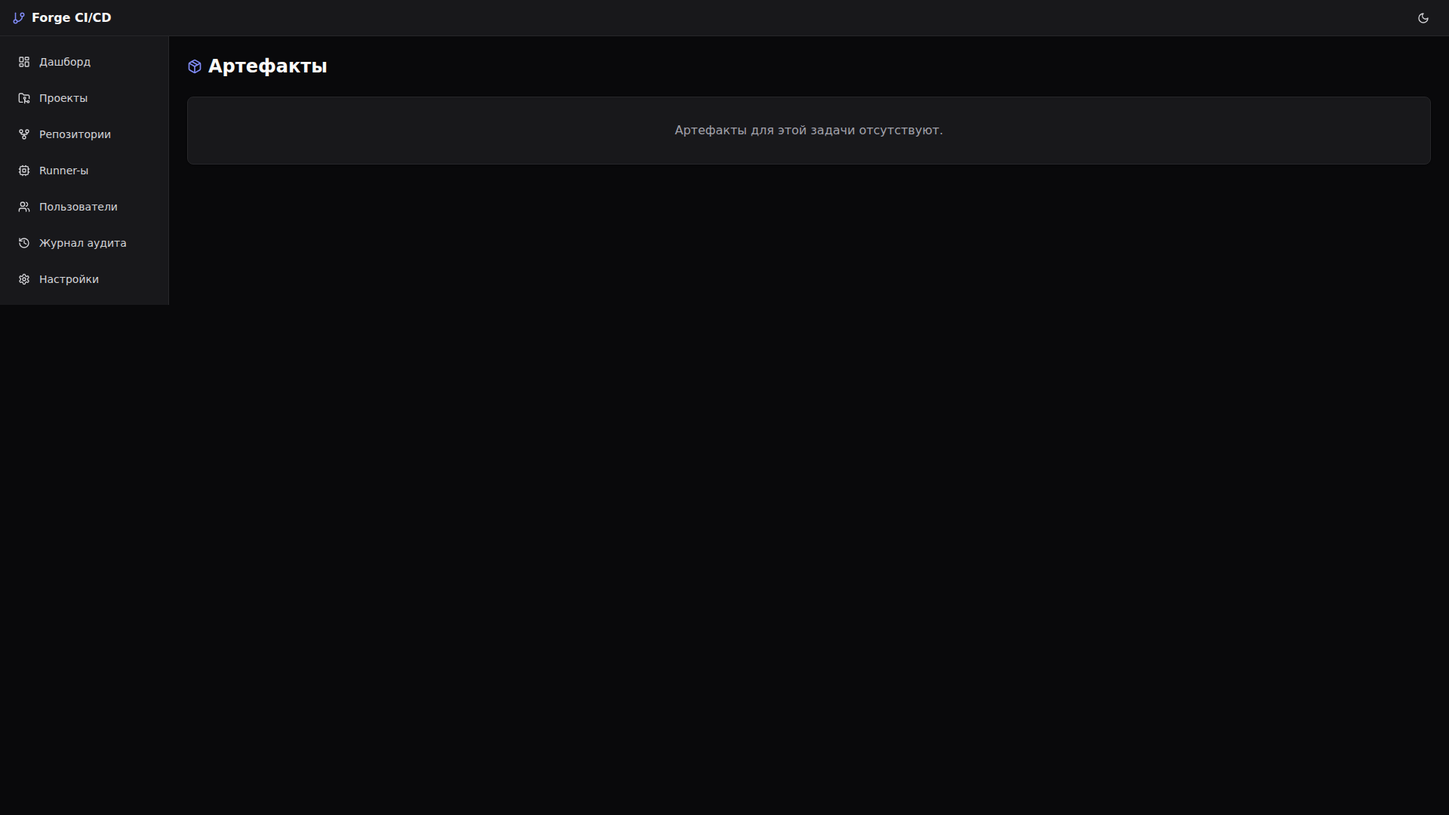
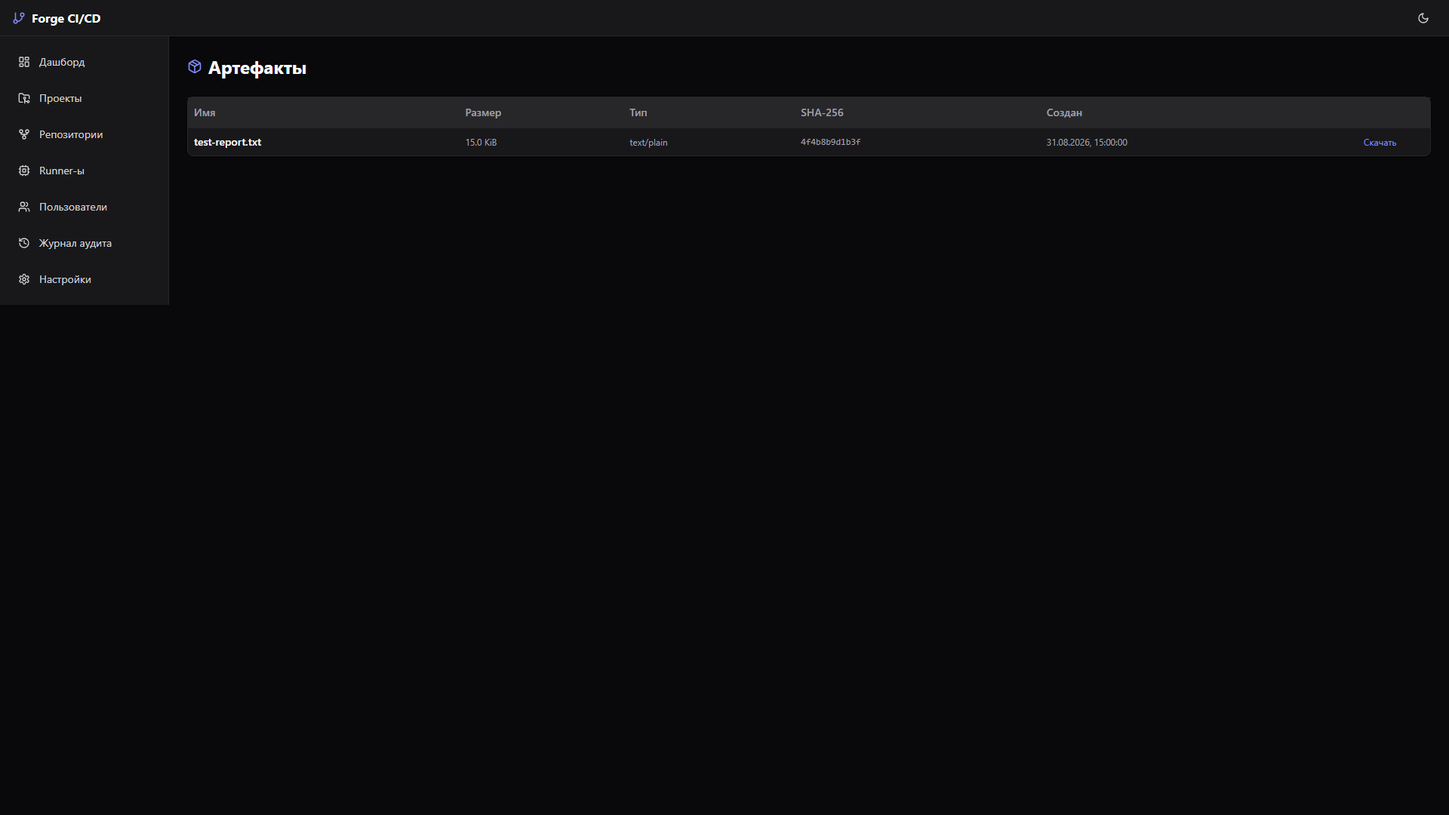
feat: add artifact checksum validation

diff --git a/frontend/src/pages/artifacts/index.tsx b/frontend/src/pages/artifacts/index.tsx
@@ -29,6 +29,7 @@ export function ArtifactsPage() {
                 <TableHead>{t('artifacts.name')}</TableHead>
                 <TableHead>{t('artifacts.size')}</TableHead>
                 <TableHead>{t('artifacts.type')}</TableHead>
+                <TableHead>{t('artifacts.digest')}</TableHead>
                 <TableHead>{t('artifacts.created')}</TableHead>
                 <TableHead className="w-24"></TableHead>
               </TableRow>
@@ -39,6 +40,7 @@ export function ArtifactsPage() {
                   <TableCell className="font-medium">{a.name}</TableCell>
                   <TableCell className="text-xs text-text-muted">{formatBytes(a.size_bytes)}</TableCell>
                   <TableCell className="text-xs text-text-muted">{a.content_type}</TableCell>
+                  <TableCell className="font-mono text-xs text-text-muted" title={a.sha256 ?? undefined}>{a.sha256 ? a.sha256.slice(0, 12) : 'n/a'}</TableCell>
                   <TableCell className="text-xs text-text-muted">{new Date(a.created_at).toLocaleString()}</TableCell>
                   <TableCell>
                     <a

diff --git a/frontend/src/api/schema.d.ts b/frontend/src/api/schema.d.ts
@@ -1138,6 +1138,7 @@ export interface components {
             /** Format: uuid */
             job_id: string;
             name: string;
+            sha256?: string | null;
             /** Format: int64 */
             size_bytes: number;
         };

diff --git a/frontend/src/api/types.ts b/frontend/src/api/types.ts
@@ -185,6 +185,7 @@ export interface Artifact {
   attempt_id: string | null
   name: string
   content_type: string
+  sha256: string | null
   size_bytes: number
   created_at: string
 }

diff --git a/backend/src/platform.rs b/backend/src/platform.rs
@@ -264,6 +264,7 @@ pub(crate) struct Artifact {
     attempt_id: Option<Uuid>,
     name: String,
     content_type: String,
+    sha256: Option<String>,
     size_bytes: i64,
     created_at: DateTime<Utc>,
 }
@@ -272,7 +273,7 @@ async fn list_artifacts(
     State(state): State<Arc<AppState>>,
     Path(job_id): Path<Uuid>,
 ) -> ApiResult<Vec<Artifact>> {
-    Ok(Json(sqlx::query_as("SELECT id, job_id, attempt_id, name, content_type, size_bytes, created_at FROM artifacts WHERE job_id = $1 ORDER BY created_at DESC")
+    Ok(Json(sqlx::query_as("SELECT id, job_id, attempt_id, name, content_type, sha256, size_bytes, created_at FROM artifacts WHERE job_id = $1 ORDER BY created_at DESC")
         .bind(job_id).fetch_all(pool(&state)?).await.map_err(ApiError::internal)?))
 }
 #[utoipa::path(post, path = "/api/v1/jobs/{job_id}/artifacts", tag = "artifacts", params(("job_id" = Uuid, Path), ("X-Artifact-Name" = String, Header)), request_body = Vec<u8>, responses((status = 200, body = Artifact), (status = 400)))]
@@ -293,7 +294,7 @@ async fn upload_artifact(
         .and_then(|v| v.to_str().ok())
         .unwrap_or("artifact.bin")
         .trim();
-    if name.is_empty() || name.contains('/') || name.contains('\\') {
+    if !valid_artifact_name(name) {
         return Err(ApiError::bad_request("invalid artifact name"));
     }
     let content_type = headers
@@ -301,6 +302,7 @@ async fn upload_artifact(
         .and_then(|v| v.to_str().ok())
         .unwrap_or("application/octet-stream");
     let id = Uuid::new_v4();
+    let artifact_sha256 = sha256_bytes(body.as_ref());
     let path = new_artifact_path(id)?;
     std::fs::write(&path, &body).map_err(io_error)?;
     let attempt_id = crate::store::active_or_latest_attempt_id(pool(&state)?, job_id)
@@ -309,8 +311,8 @@ async fn upload_artifact(
             sqlx::Error::RowNotFound => ApiError::not_found(),
             other => ApiError::internal(other),
         })?;
-    let artifact = sqlx::query_as("INSERT INTO artifacts (id, job_id, attempt_id, name, storage_path, content_type, size_bytes) VALUES ($1, $2, $3, $4, $5, $6, $7) RETURNING id, job_id, attempt_id, name, content_type, size_bytes, created_at")
-        .bind(id).bind(job_id).bind(attempt_id).bind(name).bind(path.to_string_lossy().as_ref()).bind(content_type).bind(body.len() as i64).fetch_one(pool(&state)?).await.map_err(ApiError::internal)?;
+    let artifact = sqlx::query_as("INSERT INTO artifacts (id, job_id, attempt_id, name, storage_path, content_type, sha256, size_bytes) VALUES ($1, $2, $3, $4, $5, $6, $7, $8) RETURNING id, job_id, attempt_id, name, content_type, sha256, size_bytes, created_at")
+        .bind(id).bind(job_id).bind(attempt_id).bind(name).bind(path.to_string_lossy().as_ref()).bind(content_type).bind(&artifact_sha256).bind(body.len() as i64).fetch_one(pool(&state)?).await.map_err(ApiError::internal)?;
     audit(pool(&state)?, "artifact.uploaded", "artifact", id, None).await?;
     Ok(Json(artifact))
 }
@@ -319,22 +321,26 @@ async fn download_artifact(
     State(state): State<Arc<AppState>>,
     Path(artifact_id): Path<Uuid>,
 ) -> Result<Response, ApiError> {
-    let row: (String, String, String) =
-        sqlx::query_as("SELECT storage_path, name, content_type FROM artifacts WHERE id = $1")
-            .bind(artifact_id)
-            .fetch_optional(pool(&state)?)
-            .await
-            .map_err(ApiError::internal)?
-            .ok_or_else(ApiError::not_found)?;
+    let row: (String, String, String, Option<String>) = sqlx::query_as(
+        "SELECT storage_path, name, content_type, sha256 FROM artifacts WHERE id = $1",
+    )
+    .bind(artifact_id)
+    .fetch_optional(pool(&state)?)
+    .await
+    .map_err(ApiError::internal)?
+    .ok_or_else(ApiError::not_found)?;
     let path = contained_artifact_path(&row.0)?;
     let bytes = std::fs::read(path).map_err(|_| ApiError::not_found())?;
+    if let Some(expected) = row.3.as_deref() {
+        let actual = sha256_bytes(&bytes);
+        if actual != expected {
+            return Err(ApiError::conflict("artifact checksum mismatch"));
+        }
+    }
     Ok((
         [
             ("content-type", row.2),
-            (
-                "content-disposition",
-                format!("attachment; filename=\"{}\"", row.1),
-            ),
+            ("content-disposition", artifact_content_disposition(&row.1)),
         ],
         bytes,
     )
@@ -1312,8 +1318,49 @@ fn canonical_artifacts_root() -> Result<PathBuf, ApiError> {
 fn io_error(error: std::io::Error) -> ApiError {
     ApiError::internal(sqlx::Error::Io(error))
 }
+fn valid_artifact_name(name: &str) -> bool {
+    !name.is_empty()
+        && name.len() <= 255
+        && !name.contains('/')
+        && !name.contains('\\')
+        && !name.contains('"')
+        && !name.chars().any(char::is_control)
+}
+fn artifact_content_disposition(name: &str) -> String {
+    let fallback = name
+        .chars()
+        .map(|c| {
+            if c.is_ascii_alphanumeric() || matches!(c, '.' | '_' | '-') {
+                c
+            } else {
+                '_'
+            }
+        })
+        .collect::<String>();
+    format!(
+        "attachment; filename=\"{}\"; filename*=UTF-8''{}",
+        fallback,
+        percent_encode_utf8(name)
+    )
+}
+fn percent_encode_utf8(value: &str) -> String {
+    value
+        .as_bytes()
+        .iter()
+        .map(|byte| {
+            if byte.is_ascii_alphanumeric() || matches!(byte, b'.' | b'_' | b'-') {
+                (*byte as char).to_string()
+            } else {
+                format!("%{byte:02X}")
+            }
+        })
+        .collect()
+}
+fn sha256_bytes(bytes: &[u8]) -> String {
+    format!("{:x}", Sha256::digest(bytes))
+}
 fn sha256(value: &str) -> String {
-    format!("{:x}", Sha256::digest(value.as_bytes()))
+    sha256_bytes(value.as_bytes())
 }
 
 fn decrypt_secret(stored: &str) -> Result<String, String> {
@@ -1404,5 +1451,21 @@ mod tests {
     fn roles_are_allowlisted() {
         assert!(valid_role("admin"));
         assert!(!valid_role("owner"));
+    }
+    #[test]
+    fn artifact_names_reject_path_and_header_breakers() {
+        assert!(valid_artifact_name("report.txt"));
+        assert!(valid_artifact_name("отчёт.txt"));
+        assert!(!valid_artifact_name("../report.txt"));
+        assert!(!valid_artifact_name("bad\"name.txt"));
+        assert!(!valid_artifact_name("bad\nname.txt"));
+    }
+    #[test]
+    fn artifact_content_disposition_is_header_safe() {
+        let header = artifact_content_disposition("отчёт final.txt");
+        assert!(header.is_ascii());
+        assert!(header.contains("filename=\""));
+        assert!(header.contains("filename*=UTF-8''"));
+        assert!(header.contains("%D0%BE%D1%82%D1%87"));
     }
 }

diff --git a/backend/tests/integration_db.rs b/backend/tests/integration_db.rs
@@ -13,6 +13,7 @@ use axum::{
     http::{Request, StatusCode},
 };
 use base64::Engine;
+use sha2::{Digest, Sha256};
 use sqlx::postgres::PgPoolOptions;
 use tower::ServiceExt;
 use uuid::Uuid;
@@ -1024,20 +1025,77 @@ async fn artifact_download_rejects_storage_paths_outside_artifact_root() {
     .execute(&pool)
     .await
     .expect("insert attempt");
+
+    let app = cicd::api::app(Some(pool.clone()));
+    let uploaded_body = b"uploaded artifact bytes".to_vec();
+    let uploaded_sha256 = format!("{:x}", Sha256::digest(&uploaded_body));
+    let response = app
+        .clone()
+        .oneshot(
+            Request::post(format!("/api/v1/jobs/{job_id}/artifacts"))
+                .header("x-artifact-name", "build.log")
+                .header("content-type", "text/plain")
+                .body(Body::from(uploaded_body.clone()))
+                .unwrap(),
+        )
+        .await
+        .unwrap();
+    assert_eq!(response.status(), StatusCode::OK);
+    let uploaded = response_json(response).await;
+    assert_eq!(uploaded["sha256"].as_str(), Some(uploaded_sha256.as_str()));
+    assert_eq!(
+        uploaded["size_bytes"].as_i64(),
+        Some(uploaded_body.len() as i64)
+    );
+    let uploaded_id = Uuid::parse_str(uploaded["id"].as_str().unwrap()).unwrap();
+    let uploaded_path: String =
+        sqlx::query_scalar("SELECT storage_path FROM artifacts WHERE id = $1")
+            .bind(uploaded_id)
+            .fetch_one(&pool)
+            .await
+            .expect("uploaded artifact storage path");
+    let response = app
+        .clone()
+        .oneshot(
+            Request::get(format!("/api/v1/artifacts/{uploaded_id}/download"))
+                .body(Body::empty())
+                .unwrap(),
+        )
+        .await
+        .unwrap();
+    assert_eq!(response.status(), StatusCode::OK);
+    let bytes = to_bytes(response.into_body(), usize::MAX)
+        .await
+        .expect("read uploaded artifact body");
+    assert_eq!(bytes.as_ref(), uploaded_body.as_slice());
+
+    std::fs::write(uploaded_path, b"corrupt artifact").expect("corrupt uploaded artifact");
+    let response = app
+        .clone()
+        .oneshot(
+            Request::get(format!("/api/v1/artifacts/{uploaded_id}/download"))
+                .body(Body::empty())
+                .unwrap(),
+        )
+        .await
+        .unwrap();
+    assert_eq!(response.status(), StatusCode::CONFLICT);
+
+    let inside_sha256 = format!("{:x}", Sha256::digest(b"inside artifact"));
     sqlx::query(
         "INSERT INTO artifacts \
-         (id, job_id, attempt_id, name, storage_path, content_type, size_bytes) \
-         VALUES ($1, $2, $3, 'report.txt', $4, 'text/plain', 15)",
+         (id, job_id, attempt_id, name, storage_path, content_type, sha256, size_bytes) \
+         VALUES ($1, $2, $3, 'report.txt', $4, 'text/plain', $5, 15)",
     )
     .bind(artifact_id)
     .bind(job_id)
     .bind(attempt_id)
     .bind(inside_path.to_string_lossy().as_ref())
+    .bind(inside_sha256)
     .execute(&pool)
     .await
     .expect("insert artifact");
 
-    let app = cicd::api::app(Some(pool.clone()));
     let response = app
         .clone()
         .oneshot(

diff --git a/backend/src/store.rs b/backend/src/store.rs
@@ -93,6 +93,7 @@ pub async fn migrate(pool: &PgPool) -> Result<(), sqlx::Error> {
             name TEXT NOT NULL,
             storage_path TEXT NOT NULL,
             content_type TEXT NOT NULL DEFAULT 'application/octet-stream',
+            sha256 TEXT CHECK (sha256 IS NULL OR sha256 ~ '^[0-9a-f]{64}$'),
             size_bytes BIGINT NOT NULL,
             created_at TIMESTAMPTZ NOT NULL DEFAULT now()
         );

diff --git a/docs/TRACEABILITY.md b/docs/TRACEABILITY.md
@@ -18,7 +18,7 @@
 | REQ-OBS-001 | Логи | [API](API.md#jobs); [RUNNER PROTOCOL](contracts/RUNNER_PROTOCOL.md#4-секреты-логи-и-завершение) | compose smoke append/read logs с sequence | `screens/06-pipeline-detail`; CI current backend | Current verified |
 | REQ-OBS-002 | Диагностические логи | [EVENT CONTRACT](contracts/EVENT_CONTRACT.md#6-уведомления-и-realtime); [RUNNER PROTOCOL](contracts/RUNNER_PROTOCOL.md#4-секреты-логи-и-завершение) | Current: bounded `/logs/page` для current/latest и concrete attempt, `limit/after/q`, duplicate-free attempt sequence, exit code/timestamps/error tail в attempts; `frontend/src/pages/pipeline-detail/pipeline-detail.test.tsx`; target: command span и stream classification | CI current Backend + Frontend + migration-test + OpenAPI; `screens/33-job-logs` | Current verified MVP |
 | REQ-ART-001 | Артефакты | [API](API.md#artifacts); [DATA LIFECYCLE](contracts/DATA_LIFECYCLE.md#2-ownership-data-sets) | API/compose smoke upload/download, лимит 50 MiB и forged `storage_path` outside-root regression | `screens/21-artifacts`; CI current backend + migration-test | Current verified |
-| REQ-ART-002 | Надёжное хранилище и retention артефактов | [DATA LIFECYCLE](contracts/DATA_LIFECYCLE.md#3-retention-и-удаление); [ADR-0004](adr/0004-postgresql-only.md) | Target: real-storage integration test checksum, tenant isolation, retention cleanup и object-storage adapter | CI target migration-test + Backend + Security; retention/restore report | Target approved |
+| REQ-ART-002 | Надёжное хранилище и retention артефактов | [DATA LIFECYCLE](contracts/DATA_LIFECYCLE.md#3-retention-и-удаление); [ADR-0004](adr/0004-postgresql-only.md) | Current: SHA-256 metadata for new uploads and checksum-drift `409` regression; target: retention cleanup, tenant isolation и object-storage adapter | CI current migration-test + Backend; CI target Security + retained retention/restore report | Current verified MVP |
 | REQ-SEC-001 | Secrets | [SECURITY](SECURITY.md#5-secrets-management-phase-7--план); [API](API.md#project-secrets) | API smoke: значение сохраняется и не возвращается DTO; current embedded runner env injection + stdout/stderr masking | `screens/14-secrets`; CI current backend | Current verified |
 | REQ-SEC-002 | Scoped secret delivery и full redaction | [RUNNER PROTOCOL](contracts/RUNNER_PROTOCOL.md#4-секреты-логи-и-завершение); [DATA LIFECYCLE](contracts/DATA_LIFECYCLE.md#6-envelope-encryption-и-key-rotation) | Target: least-privilege lease, scoped secret selection, rotation и redaction plaintext в log/error/audit/trace | CI target Security + Backend redaction report | Target approved |
 | REQ-ENV-001 | Environments и deployments | [API](API.md#environments--deployments); [Функциональная архитектура](FUNCTIONAL_ARCHITECTURE.md#4-агрегаты-и-ownership) | API/compose smoke environment CRUD и append deployment history | `screens/15-environments`; CI current backend | Current verified |
@@ -44,14 +44,14 @@
 | NFR-SEC-03 | Отсутствие plaintext secrets в logs, audit, API и UI | [DATA LIFECYCLE](contracts/DATA_LIFECYCLE.md#6-envelope-encryption-и-key-rotation); [SECURITY](SECURITY.md#5-secrets-management-phase-7--план) | Current API smoke не возвращает secret value; target redaction integration test для runtime | `screens/14-secrets`; CI current backend, затем CI target Security | Current verified |
 | NFR-SEC-04 | Раздельные credential classes и минимальные scopes | [AUTHZ CONTRACT](contracts/AUTHZ_CONTRACT.md#2-principal-и-credential) | Current: PAT scopes `api:read|api:write|git:read|git:write` ограничивают REST/Git и не расширяют права owner; target: service-account/runner credential-class matrix и negative worker cases | CI current backend + migration-test; CI target Security + Backend | Current verified MVP |
 | NFR-SEC-05 | Неизменяемый безопасный audit след изменяющих действий | [AUTHZ CONTRACT](contracts/AUTHZ_CONTRACT.md#7-audit-policy) | API/manual audit append smoke; target audit-policy route coverage | `screens/19-audit-log`; CI current backend | Current verified |
-| NFR-REL-01 | Append-only доказательства attempts, logs, artifact metadata, deployments и audit; immutable pipeline plan остаётся target | [DATA LIFECYCLE](contracts/DATA_LIFECYCLE.md#4-integrity-access-и-audit); [Функциональная архитектура](FUNCTIONAL_ARCHITECTURE.md#5-нефункциональные-инварианты) | Current: retry-history migration/API test; target: immutable plan и full artifact integrity contract suite | CI current migration-test + Backend; target integrity report | Current verified |
+| NFR-REL-01 | Append-only доказательства attempts, logs, artifact metadata, deployments и audit; immutable pipeline plan остаётся target | [DATA LIFECYCLE](contracts/DATA_LIFECYCLE.md#4-integrity-access-и-audit); [Функциональная архитектура](FUNCTIONAL_ARCHITECTURE.md#5-нефункциональные-инварианты) | Current: retry-history migration/API test and artifact checksum-drift regression; target: immutable plan и full artifact lifecycle suite | CI current migration-test + Backend; target integrity report | Current verified |
 | NFR-REL-02 | Идемпотентный наблюдаемый итог асинхронных эффектов | [EVENT CONTRACT](contracts/EVENT_CONTRACT.md#4-гарантии-и-идемпотентность) | Current MVP: pipeline trigger replay/conflict real-DB test, local notification outbox fan-out/delivery test и failed outbox delivery history/requeue test; target: lease/crash retry integration test с одним observed outcome для outbox/runner/delivery | CI current migration-test + Backend; outbox delivery report target | Current verified MVP |
 | NFR-REL-03 | Согласованные pipeline/job статусы и доменные переходы | [Архитектурная карта переходов](architecture/transition-map.md); [Функциональная архитектура](FUNCTIONAL_ARCHITECTURE.md#5-нефункциональные-инварианты) | `backend/tests/domain_transitions.rs`; pipeline aggregation smoke | CI current backend; `screens/06-pipeline-detail` | Current verified |
 | NFR-REL-04 | Проверяемый backup/restore PostgreSQL, Git и артефактов | [DATA LIFECYCLE](contracts/DATA_LIFECYCLE.md#5-backup-restore-и-dr) | Current: `scripts/forge_backup.py self-test`, dry-run backup/restore и checksum manifest verification; target: automated disposable restore drill и post-restore consistency suite | CI current docs/script checks; CI target migration-test + Container smoke; signed DR report | Current verified MVP |
 | NFR-REL-05 | Timeout, cancel, resource limits и recovery при отказе runner | [RUNNER PROTOCOL](contracts/RUNNER_PROTOCOL.md#5-lease-timeout-и-состояния) | Target: lost-heartbeat/lease-expiry/cancel integration suite | CI target Backend + Container smoke; runner reconciliation report | Target approved |
 | NFR-PERF-01 | Измеримые SLO Dashboard и API | [PERFORMANCE](PERFORMANCE.md); [DELIVERY ARCHITECTURE](DELIVERY_ARCHITECTURE.md) | Target: load/SLO test с утверждёнными budgets | CI target E2E/accessibility/performance; retained Lighthouse/load report | Target approved |
 | NFR-PERF-02 | Bounded deterministic lists/streams, pagination и лимиты | [API CONTRACT](contracts/API_CONTRACT.md#5-пагинация); [API CONTRACT](contracts/API_CONTRACT.md#8-проверяемые-требования) | Current: limit/offset cap для projects/pipelines, bounded log page/search, SSE logs, bounded notification events и in-process route-class rate limits с `429`; target: cursor/order/max-limit real-DB contract tests для всех списков | CI current backend + migration-test; CI target openapi-contract + Backend | Current verified MVP |
-| NFR-PERF-03 | Наблюдаемые limits параллелизма, log/artifact size и retention | [PIPELINE DSL](contracts/PIPELINE_DSL.md#7-лимиты-и-validation); [DATA LIFECYCLE](contracts/DATA_LIFECYCLE.md#3-retention-и-удаление) | Current: artifact upload 50 MiB + in-process artifact upload rate limit; target: concurrency, checksum/retention/quota boundary tests и metrics assertions | CI current backend; CI target Backend + E2E/accessibility/performance; metrics report | Current verified MVP |
+| NFR-PERF-03 | Наблюдаемые limits параллелизма, log/artifact size и retention | [PIPELINE DSL](contracts/PIPELINE_DSL.md#7-лимиты-и-validation); [DATA LIFECYCLE](contracts/DATA_LIFECYCLE.md#3-retention-и-удаление) | Current: artifact upload 50 MiB, SHA-256 drift check and in-process artifact upload rate limit; target: concurrency, retention/quota boundary tests и metrics assertions | CI current backend; CI target Backend + E2E/accessibility/performance; metrics report | Current verified MVP |
 | NFR-UX-01 | Desktop/mobile accessibility ключевых сценариев | [UI API CONTRACT](contracts/UI_API_CONTRACT.md#8-тестовые-инварианты-frontend); [FRONTEND ARCHITECTURE](FRONTEND_ARCHITECTURE.md) | Target: Playwright critical journeys на desktop/mobile и axe без serious/critical | `screens/m-dashboard`, `m-pipeline-detail`; CI target E2E/accessibility/performance | Target approved |
 | NFR-UX-02 | Русский/английский UI при стабильных contract values | [I18N](I18N.md); [UI API CONTRACT](contracts/UI_API_CONTRACT.md#1-границы-frontend-контракта) | Target: locale component/E2E tests и API contract test stable identifiers | CI target Frontend + E2E/accessibility/performance | Target approved |
 | NFR-API-01 | CLI использует только публичный API | [API](API.md#cli); [Функциональная архитектура](FUNCTIONAL_ARCHITECTURE.md#2-capability-map) | `backend/cli/tests/cli_contract.rs`; CLI smoke against HTTP API | CI current backend; CI target CLI against real API | Current verified |

diff --git a/docs/THREAT_MODEL.md b/docs/THREAT_MODEL.md
@@ -61,7 +61,7 @@ flowchart LR
 | Runner (target) -> Runner API -> API | **S/E:** скомпрометированный runner может запросить чужую работу, секреты, logs или artifacts. **T/R:** stale runner пишет terminal state/log после retry. **I:** secret/lease попадает в storage или log. **D:** poll, log upload или renew истощает API. | Current: embedded runner запускается в backend; Docker mode использует `--network none`, `--cap-drop ALL`, read-only root FS, memory/PID limits; project secrets передаются env и маскируются в stdout/stderr best-effort. Target: отдельная runner zone, TLS/mTLS, registration token, scoped lease HMAC, fencing, rate limits, full redaction. Отсутствует: внешний runner protocol, leases, mTLS и изоляция API от Docker socket. | `RUNNER_PROTOCOL` §1--§5; `AUTHZ_CONTRACT` §2, §6, §7 |
 | API -> PostgreSQL volume | **T/I/E:** SQL/metadata, ciphertext secrets, audit и events доступны процессу с DB credential; скомпрометированный backend получает их все. **D:** connection/storage exhaustion. | Current: parameterized SQLx; committed SQLx migrations; secrets AES-256-GCM at rest; DB bound to localhost в compose; domain_events/outbox_messages для terminal delivery. Target: `forge_runtime` least privilege, schema `forge`, tenant predicates, stronger append-only guarantees и encrypted backup. Отсутствует: production DB role split, verified backup/restore и target tenant isolation. | `AUTHZ_CONTRACT` §1, §7; `EVENT_CONTRACT` §1; `DATA_LIFECYCLE` §1, §2, §4--§6 |
 | API -> bare Git volume | **T/I/E:** backend или embedded job path может изменить/прочитать любой repository; удаление сразу удаляет directory. **D:** corrupt/oversize repo исчерпает volume. | Current: repo name allowlist и DB existence check перед Git service. Target: logical storage keys, server-side authorization/audit, quarantine, `git fsck`, dedicated Git storage policy. отсутствует: repository-to-project mandatory mapping, Git integrity monitoring, quarantine/retention lifecycle. | `AUTHZ_CONTRACT` §1, §5, §6; `DATA_LIFECYCLE` §1, §2, §3--§5 |
-| API -> artifacts volume -> download | **T/I/E:** отсутствие auth позволяет читать/загружать artifacts по ID и job ID; `storage_path` из DB больше не считается доверенным, но metadata-компрометация всё ещё может ломать доступность конкретного artifact. Filename ограничен только `/` и `\\`. **D:** upload ограничен 50 MiB и in-process rate limit, но quota/retention отсутствуют. | Current: UUID storage filename для новых uploads; запрет `/` и `\\` в artifact name; 50 MiB request limit; route-class rate limit; download canonicalize-ит artifact root и stored path, затем возвращает `404`, если файл вне root. Target: server-side authorization до I/O, tenant/project storage key, SHA-256, immutable object/version, state/retention/hold checks. отсутствует: tenant isolation, checksum, quotas/retention and malware/content policy. | `AUTHZ_CONTRACT` §1, §5, §6; `DATA_LIFECYCLE` §1--§4 |
+| API -> artifacts volume -> download | **T/I/E:** отсутствие auth позволяет читать/загружать artifacts по ID и job ID; `storage_path` из DB больше не считается доверенным, но metadata-компрометация всё ещё может ломать доступность конкретного artifact. Filename ограничен path/header-опасными символами. **D:** upload ограничен 50 MiB и in-process rate limit, но quota/retention отсутствуют. | Current: UUID storage filename для новых uploads; запрет `/`, `\\`, quote и control chars в artifact name; 50 MiB request limit; route-class rate limit; download canonicalize-ит artifact root и stored path, затем возвращает `404`, если файл вне root, и `409`, если bytes не совпадают с SHA-256 metadata. Target: server-side authorization до I/O в production, tenant/project storage key, immutable object/version, state/retention/hold checks, quotas and malware/content policy. Отсутствует: tenant isolation, retention/quota lifecycle and immutable object state. | `AUTHZ_CONTRACT` §1, §5, §6; `DATA_LIFECYCLE` §1--§4 |
 | Outbox worker -> webhooks/notifications | **S/T/I:** SSRF, redirect или destination impersonation для внешних destinations; неверно настроенный secret раскрывает доверие получателя; payload может унести лишние metadata. **R:** bounded history уже фиксирует attempts/outcome, но без lease/crash-safe dispatcher-а остаётся риск спорного результата после сбоя. **D:** slow receiver и retries блокируют delivery. | Current: outgoing webhooks MVP через domain_events/outbox_messages, basic retry/backoff, optional HMAC, project-scoped delivery history и failed requeue; `in_app`/`sse` notifications создают local outbox history/stream и не отправляют внешние HTTP/SMTP сообщения. Target: TLS-only production URL, destination validation, lease/fencing, full dead-letter policy/metrics and audit. Отсутствует: full runtime controls, external notification delivery и production operator workflow для replay/dead-letter. | `EVENT_CONTRACT` §1--§7; `AUTHZ_CONTRACT` §1, §5, §7 |
 
 ## 4. Приоритетные текущие риски и план снижения
@@ -72,7 +72,7 @@ flowchart LR
 | P0 | **Plaintext internal token.** Если `CICD_GIT_INTERNAL_TOKEN` задан, он передаётся HTTP и записывается в generated `post-receive` hook; пустой trusted-local режим всё ещё опасен вне изолированного dev. | Немедленно требовать уникальный secret вне VCS и ограничить localhost permissions. Целевое исправление: отдельный локальный protected channel либо mTLS/signed одноразовый system event с timestamp; удалить token из hook text. | Compose не задаёт known dev default; legacy default отклоняется при старте; target replay/invalid signature test проходит; raw token отсутствует в repo, logs и generated hook. |
 | P0 | **Secrets в environment.** DB password, Git/internal tokens и master key доступны процессу backend и могут раскрыться через process inspection, crash/debug output или job при ошибочной изоляции. | Использовать secret manager/Compose secrets с read-only files, least-privilege runtime identity, rotation и запрет secret в logs/images. Изолировать runner от API process согласно ADR-0007. | Runtime не получает plaintext, который ему не нужен; rotation/incident procedure проверена; secret scan и redaction tests green. |
 | P1 | **Rate limiting ещё single-node.** Current in-process limiter снижает naive flood для auth, API, Git Smart HTTP, internal hook и artifact upload, но не защищает от распределённой атаки, прямого обхода trusted proxy headers и restart reset. | Добавить reverse-proxy и distributed application limits: body/time/concurrency; per-IP и per-principal `429`; отдельные строгие лимиты для trigger, Git, artifact, runner logs/poll. | Нагрузочные/contract tests подтверждают bounded behavior и `429`; метрики не содержат sensitive IDs; distributed counters не сбрасываются при restart. |
-| P1 | **Artifact integrity/retention ещё неполные.** Download уже не читает `storage_path` вне artifact root, но объект всё ещё не имеет SHA-256 digest, immutable object state, tenant-scoped storage key, quota и retention lifecycle. | Не хранить absolute path как authority: перейти на immutable storage key/UUID, хранить digest и tenant/project scope, добавить quota/retention/hold. | Test с forged `storage_path` не читает файл вне root; target authorized download сверяет scope/state/checksum. |
+| P1 | **Artifact integrity/retention ещё неполные.** Download уже не читает `storage_path` вне artifact root и сверяет SHA-256 для новых uploads, но legacy rows могут быть без digest; immutable object state, tenant-scoped storage key, quota и retention lifecycle отсутствуют. | Не хранить absolute path как authority: перейти на immutable storage key/UUID, tenant/project scope, quota/retention/hold и reconciler checksum policy. | Tests: forged `storage_path` не читает файл вне root; checksum drift даёт `409`; target authorized download сверяет scope/state/checksum/retention. |
 | P1 | **Git protocol не изолирован полностью.** `/git` и `/api` обслуживает один backend; legacy Git token остаётся optional/global, direct backend port опубликован, current mapping выводится из URL suffix. | Закрыть direct backend port внешней сети; выделить Git ingress/proxy policy, TLS и scoped Git credentials; заменить URL suffix lookup tenant-bound mapping, ограничить request size/concurrency и audit push/denial. | Git routes требуют `repository.read`/`repository.write`; обход nginx/ingress невозможен; policy и denial audited. |
 
 ## 5. Изменение модели

diff --git a/docs/PRODUCT_REQUIREMENTS.md b/docs/PRODUCT_REQUIREMENTS.md
@@ -78,7 +78,7 @@ Forge **не является** и не должен развиваться ка
 | REQ-OBS-001 | Логи | P0 | **Current verified** | Логи job append-only, упорядочены внутри `execution_attempt` и доступны для диагностики. Текущий просмотр использует polling и совместимый latest/open shortcut. |
 | REQ-OBS-002 | Диагностические логи | P1 | **Current verified MVP** | Длинные логи доступны через bounded page/search (`limit`/`after`/`q`) и SSE stream; attempts хранят exit code, timestamps и error tail. Command span и stream classification остаются target. |
 | REQ-ART-001 | Артефакты | P0 | **Current verified** | Пользователь может сохранить и получить артефакт job из локального хранилища в рамках текущего лимита размера; новые uploads получают metadata текущей/latest attempt. |
-| REQ-ART-002 | Надёжное хранилище и retention артефактов | P1 | **Target approved** | Артефакты имеют проверяемую целостность, политику хранения и очистки; поддерживается совместимое object storage без раскрытия данных между проектами. |
+| REQ-ART-002 | Надёжное хранилище и retention артефактов | P1 | **Current verified MVP** | Новые артефакты получают SHA-256 и download отвергает checksum drift. Retention policy, cleanup worker, object storage adapter и tenant/object isolation остаются target. |
 | REQ-SEC-001 | Secrets | P0 | **Current verified** | Проектные секреты шифруются при хранении, их значения не возвращаются пользователю после сохранения, embedded runner передаёт их в env и маскирует известные значения в stdout/stderr best-effort. |
 | REQ-SEC-002 | Scoped secret delivery и full redaction | P1 | **Target approved** | Только авторизованный runner получает нужный секрет на время выполнения; plaintext не попадает в API, audit, ошибки, traces или логи, а выдача имеет scopes, lease и rotation policy. |
 | REQ-ENV-001 | Environments и deployments | P1 | **Current verified** | Пользователь ведёт metadata окружений и историю развёртываний для проекта. Текущий capability не означает автоматическую оркестрацию инфраструктуры, approvals или rollback. |
@@ -107,7 +107,7 @@ Forge **не является** и не должен развиваться ка
 
 ### Надёжность и целостность
 
-- **NFR-REL-01** Pipeline plan, execution attempts, логи, metadata артефактов, deployment history и audit entries являются доказательствами и не переписываются задним числом; исправление создаёт новую запись. Current MVP закрывает retry history для attempts/logs/artifact metadata, а immutable pipeline plan snapshot и full storage integrity остаются target.
+- **NFR-REL-01** Pipeline plan, execution attempts, логи, metadata артефактов, deployment history и audit entries являются доказательствами и не переписываются задним числом; исправление создаёт новую запись. Current MVP закрывает retry history для attempts/logs/artifact metadata и checksum для новых artifacts, а immutable pipeline plan snapshot и full storage lifecycle остаются target.
 - **NFR-REL-02** Асинхронные эффекты допускают повтор доставки, но наблюдаемый итог остаётся идемпотентным. Current MVP покрывает pipeline trigger replay/conflict, local notification delivery и bounded outbox delivery history/requeue; full lease recovery/crash retry для всех async effects остаётся target.
 - **NFR-REL-03** Статус pipeline должен быть согласован с состоянием дочерних сущностей и не может обходить доменные правила переходов.
 - **NFR-REL-04** Хранилища PostgreSQL, Git и артефактов имеют документированную и проверяемую процедуру backup/restore; запуск после сбоя восстанавливает согласованное рабочее состояние.

diff --git a/docs/STORAGE_ARCHITECTURE.md b/docs/STORAGE_ARCHITECTURE.md
@@ -27,10 +27,10 @@
 | Тестовая БД | GitHub Actions PostgreSQL service + `cargo test --features integration --test integration_db`; local `backend/docker-compose.test.yml` fixture | Изолированная PostgreSQL lifecycle/roles для integration-тестов, prior-schema upgrade, параллельные тесты не делят данные |
 | Репозитории | Строка `repositories` и bare-directory в volume; удаление сначала удаляет строку, затем best-effort директорию | Реестр с состояниями provision/delete, стабильным `storage_key`, saga/reconciler, проверка `git fsck`, backup-aware purge |
 | Связь project/repository | Поиск проекта по URL suffix `LIKE '%name.git'` | Явный `repositories.project_id`, уникальная связь и Git push event с repository ID/commit SHA |
-| Артефакты | Локальная ФС, лимит одного upload 50 MiB, DB-row после записи файла, checksum отсутствует; download project-scoped при включённом `CICD_AUTH_SECRET` | Порт object storage; потоковая загрузка, SHA-256, временный объект, квоты/резервы, retention worker, авторизованная загрузка |
+| Артефакты | Локальная ФС, лимит одного upload 50 MiB, DB-row после записи файла, SHA-256 для новых uploads; download project-scoped при включённом `CICD_AUTH_SECRET` и проверяет checksum drift | Порт object storage; потоковая загрузка во temporary object, квоты/резервы, retention worker, tenant/project storage key, авторизованная загрузка |
 | Секреты | AES-256-GCM под единым `CICD_SECRETS_KEY`; формат `v1:nonce:ciphertext` | Envelope encryption: per-secret DEK, KMS/KEK key ID, AAD, версии, rewrap и безопасная ротация |
 | Пагинация | Projects и pipelines имеют `limit/offset` с cap 200; часть списков всё ещё без unified cursor/envelope | Единый bounded keyset pagination и составные индексы под каждый список |
-| Backup | Ручной runbook в `OPERATIONS.md`: `pg_dump` + копирование Git/artifact volumes; автоматических scripts/verify нет | Координированный backup manifest для PG, Git, objects и ключевых версий; регулярный restore drill |
+| Backup | `scripts/backup.sh`/`scripts/verify-backup.sh`/`scripts/restore.sh` для локального Docker Compose: `pg_dump` + копирование Git/artifact volumes + checksum manifest | Координированный off-site/PITR backup manifest для PG, Git, objects и ключевых версий; регулярный restore drill |
 | Retention/удаление | CASCADE удаляет DB-строки; файлы артефактов и Git могут остаться | Политики хранения, soft-delete/tombstone, outbox/reconciler, криптографическое и физическое удаление |
 | DR | RPO/RTO и процедура восстановления не определены | Документированные RPO/RTO, off-site копия, immutable backup, проверка восстановления по расписанию |
 

diff --git a/docs/TEST_PLAN.md b/docs/TEST_PLAN.md
@@ -82,7 +82,7 @@ Coverage измеряет поведение и риск, а не только l
 | Status transitions | Domain test для всех допустимых и недопустимых переходов, terminal states и aggregation; real-DB/API test для persisted transition, concurrent/retry boundary и согласованности pipeline/stage/job. Единственный источник правил -- `JobStatus::transition_to()`. |
 | Logs | Append/read сохраняют attempt-owned sequence; bounded `/logs/page` проверяется на `limit`, `after`, `q`, `next_after` и 404 для чужой attempt. Старые array endpoints остаются compatibility surface. |
 | Auth и RBAC | Current enforcement требует `401`/`403`, enabled user, JWT/scoped PAT, PAT scopes/project boundary, session-bound access invalidation, refresh rotate/logout revoke и audit event при заданном `CICD_AUTH_SECRET`; tenant isolation, service-account tokens, refresh-cookie/CSRF/session-family policy и persistent lockout остаются target. |
-| Secrets/artifacts | Создание/metadata допускаются только через safe contract; plaintext secret не возвращается API/UI; artifact download не читает `storage_path` вне `CICD_ARTIFACTS_DIR`. Current embedded runner secret injection и masking нуждаются в focused regression tests; target дополнительно проверяет least privilege lease, artifact checksum/scope и redaction во всех error/audit/trace каналах. |
+| Secrets/artifacts | Создание/metadata допускаются только через safe contract; plaintext secret не возвращается API/UI; artifact download не читает `storage_path` вне `CICD_ARTIFACTS_DIR` и возвращает `409` при checksum drift для новых uploads. Current embedded runner secret injection и masking нуждаются в focused regression tests; target дополнительно проверяет least privilege lease, retention/scope и redaction во всех error/audit/trace каналах. |
 | Rate limits | Current in-process middleware должен возвращать `429` до handler/auth для auth/API/Git/artifact route classes и не ограничивать health/openapi/metrics. Target дополнительно требует trusted proxy/distributed counters, per-account lockout, body/time/concurrency policy и нагрузочный evidence. |
 | Outbox и идемпотентность | Current `domain_events`/`outbox_messages` должны доказывать atomic terminal pipeline event, basic webhook retry, local `in_app`/`sse` notification fan-out/delivery, delivery attempt history и явный requeue failed-доставки новой generation; real-DB test проверяет replay/conflict для pipeline trigger `Idempotency-Key` и failed outbox delivery history/requeue. Target: general duplicate ingress, lease recovery, crash retry, full dead-letter policy и single observed outcome для всех async effects. |
 | Backup/restore | Current helper должен проходить Python syntax check, checksum/manifest self-test, dry-run backup/restore и wrapper shell syntax в CI. Target дополнительно требует disposable restore drill с PostgreSQL restore, Git fsck, artifact checksum, read-only API smoke, RTO/RPO measurement и retained DR report. |

diff --git a/docs/CURRENT_STATE.md b/docs/CURRENT_STATE.md
@@ -13,7 +13,7 @@
 | Embedded runner | ✅ | Docker (`forge-job-<id>`) или host shell; стриминг stdout → attempt-owned `job_logs`; cancel через PID-map |
 | Execution attempts | ✅ MVP | `execution_attempts` создаются для каждой job; retry job/pipeline создаёт новую attempt и не удаляет старые логи |
 | Логи | ✅ | append-only внутри attempt, sequence per attempt, совместимый REST array shortcut, bounded `/logs/page` с `limit/after/q` и SSE stream текущей/последней attempt |
-| Артефакты | ✅ | upload/download ≤50 MiB, локальный `CICD_ARTIFACTS_DIR`; новые metadata привязаны к active/latest attempt; download проверяет canonical path containment внутри artifact root |
+| Артефакты | ✅ MVP | upload/download ≤50 MiB, локальный `CICD_ARTIFACTS_DIR`; новые metadata привязаны к active/latest attempt и содержат SHA-256; download проверяет canonical path containment и checksum drift |
 | Секреты проектов | ✅ | AES-256-GCM at rest; значение не возвращается API |
 | Environments/deployments | ✅ | metadata + history |
 | Reports | ✅ | агрегаты success rate/duration |
@@ -36,7 +36,7 @@
 
 ## Не реализовано (Target approved — см. ADR + contracts)
 
-Runner protocol/leases/dispatch (внешний runner, ADR-0007), immutable pipeline plan/DAG, general idempotency storage for all retryable mutations, command spans/stream classification для диагностических логов, S3 artifacts/retention, off-site/PITR backup platform и verified restore drill, external notification channel adapters (email/Slack), inbound provider webhook handlers, tenant isolation, service-account tokens, scoped Git credentials, production cookie/CSRF/session-family policy, full cron semantics, outbox lease/fencing/crash recovery, full dead-letter operator policy/metrics и distributed/proxy rate limiting (сейчас in-process окно по forwarded client key).
+Runner protocol/leases/dispatch (внешний runner, ADR-0007), immutable pipeline plan/DAG, general idempotency storage for all retryable mutations, command spans/stream classification для диагностических логов, artifact retention/object storage, off-site/PITR backup platform и verified restore drill, external notification channel adapters (email/Slack), inbound provider webhook handlers, tenant isolation, service-account tokens, scoped Git credentials, production cookie/CSRF/session-family policy, full cron semantics, outbox lease/fencing/crash recovery, full dead-letter operator policy/metrics и distributed/proxy rate limiting (сейчас in-process окно по forwarded client key).
 
 ## Текущее runtime-дерево backend
 
